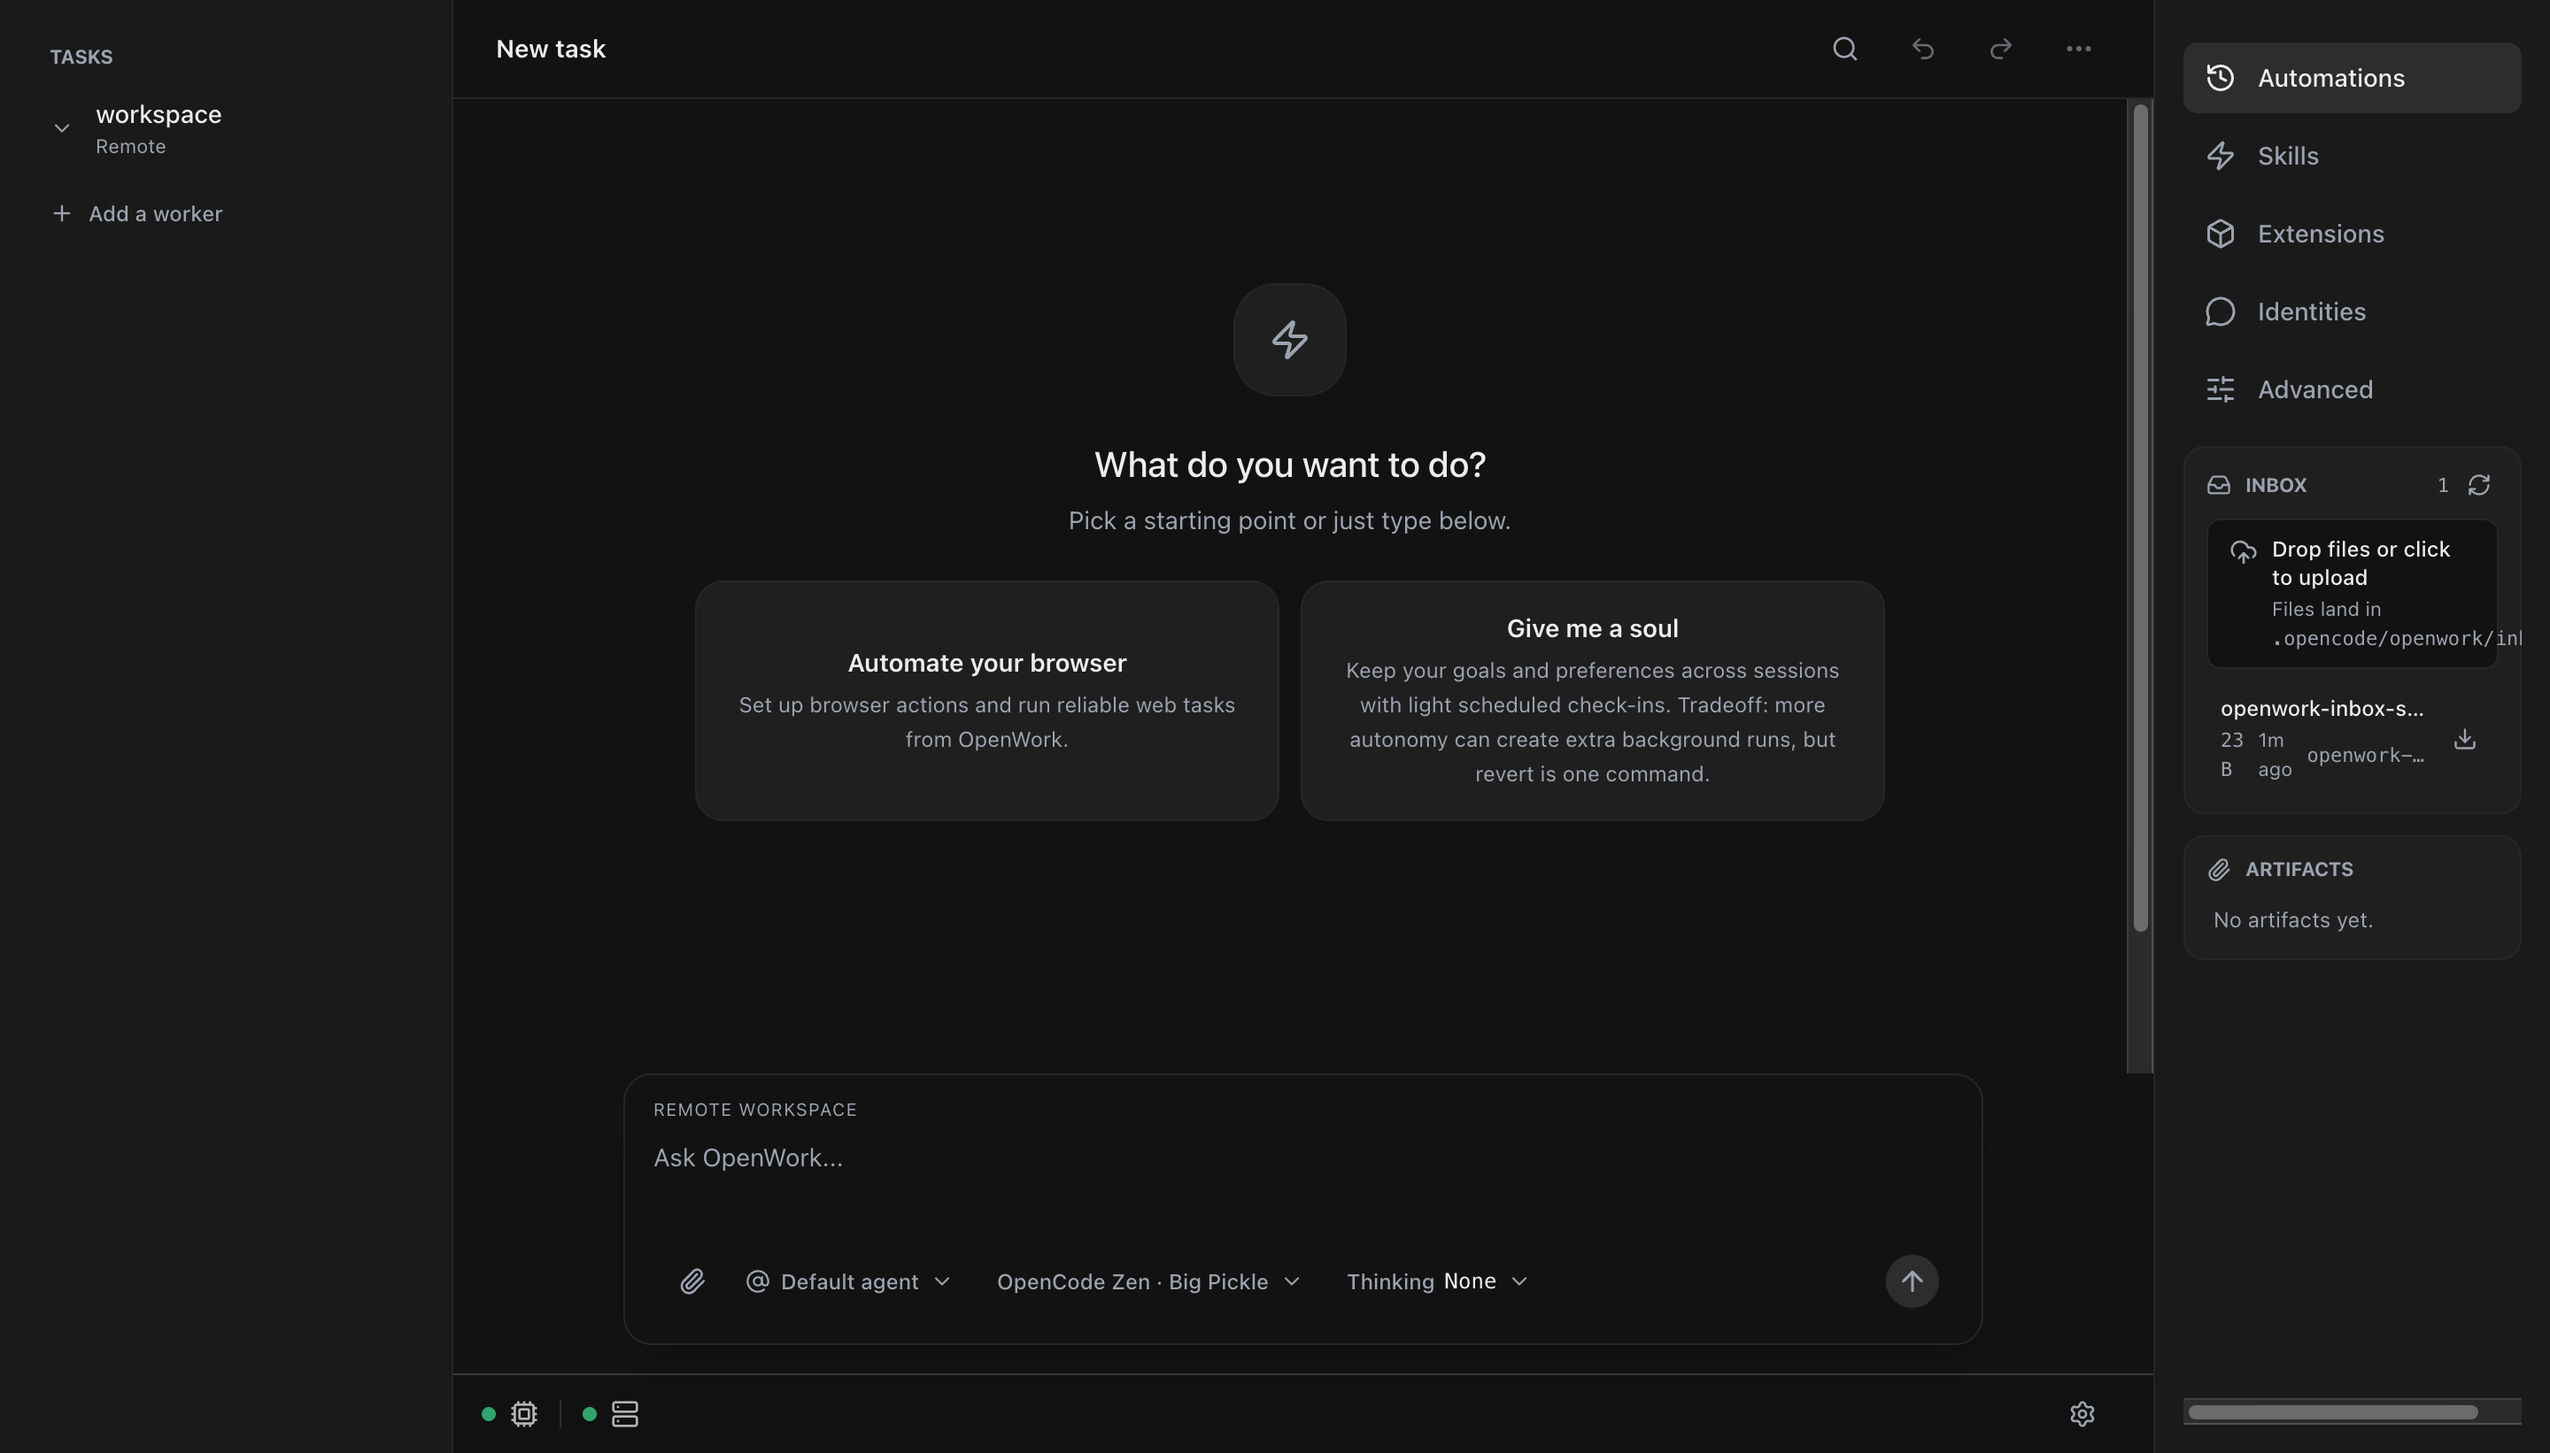
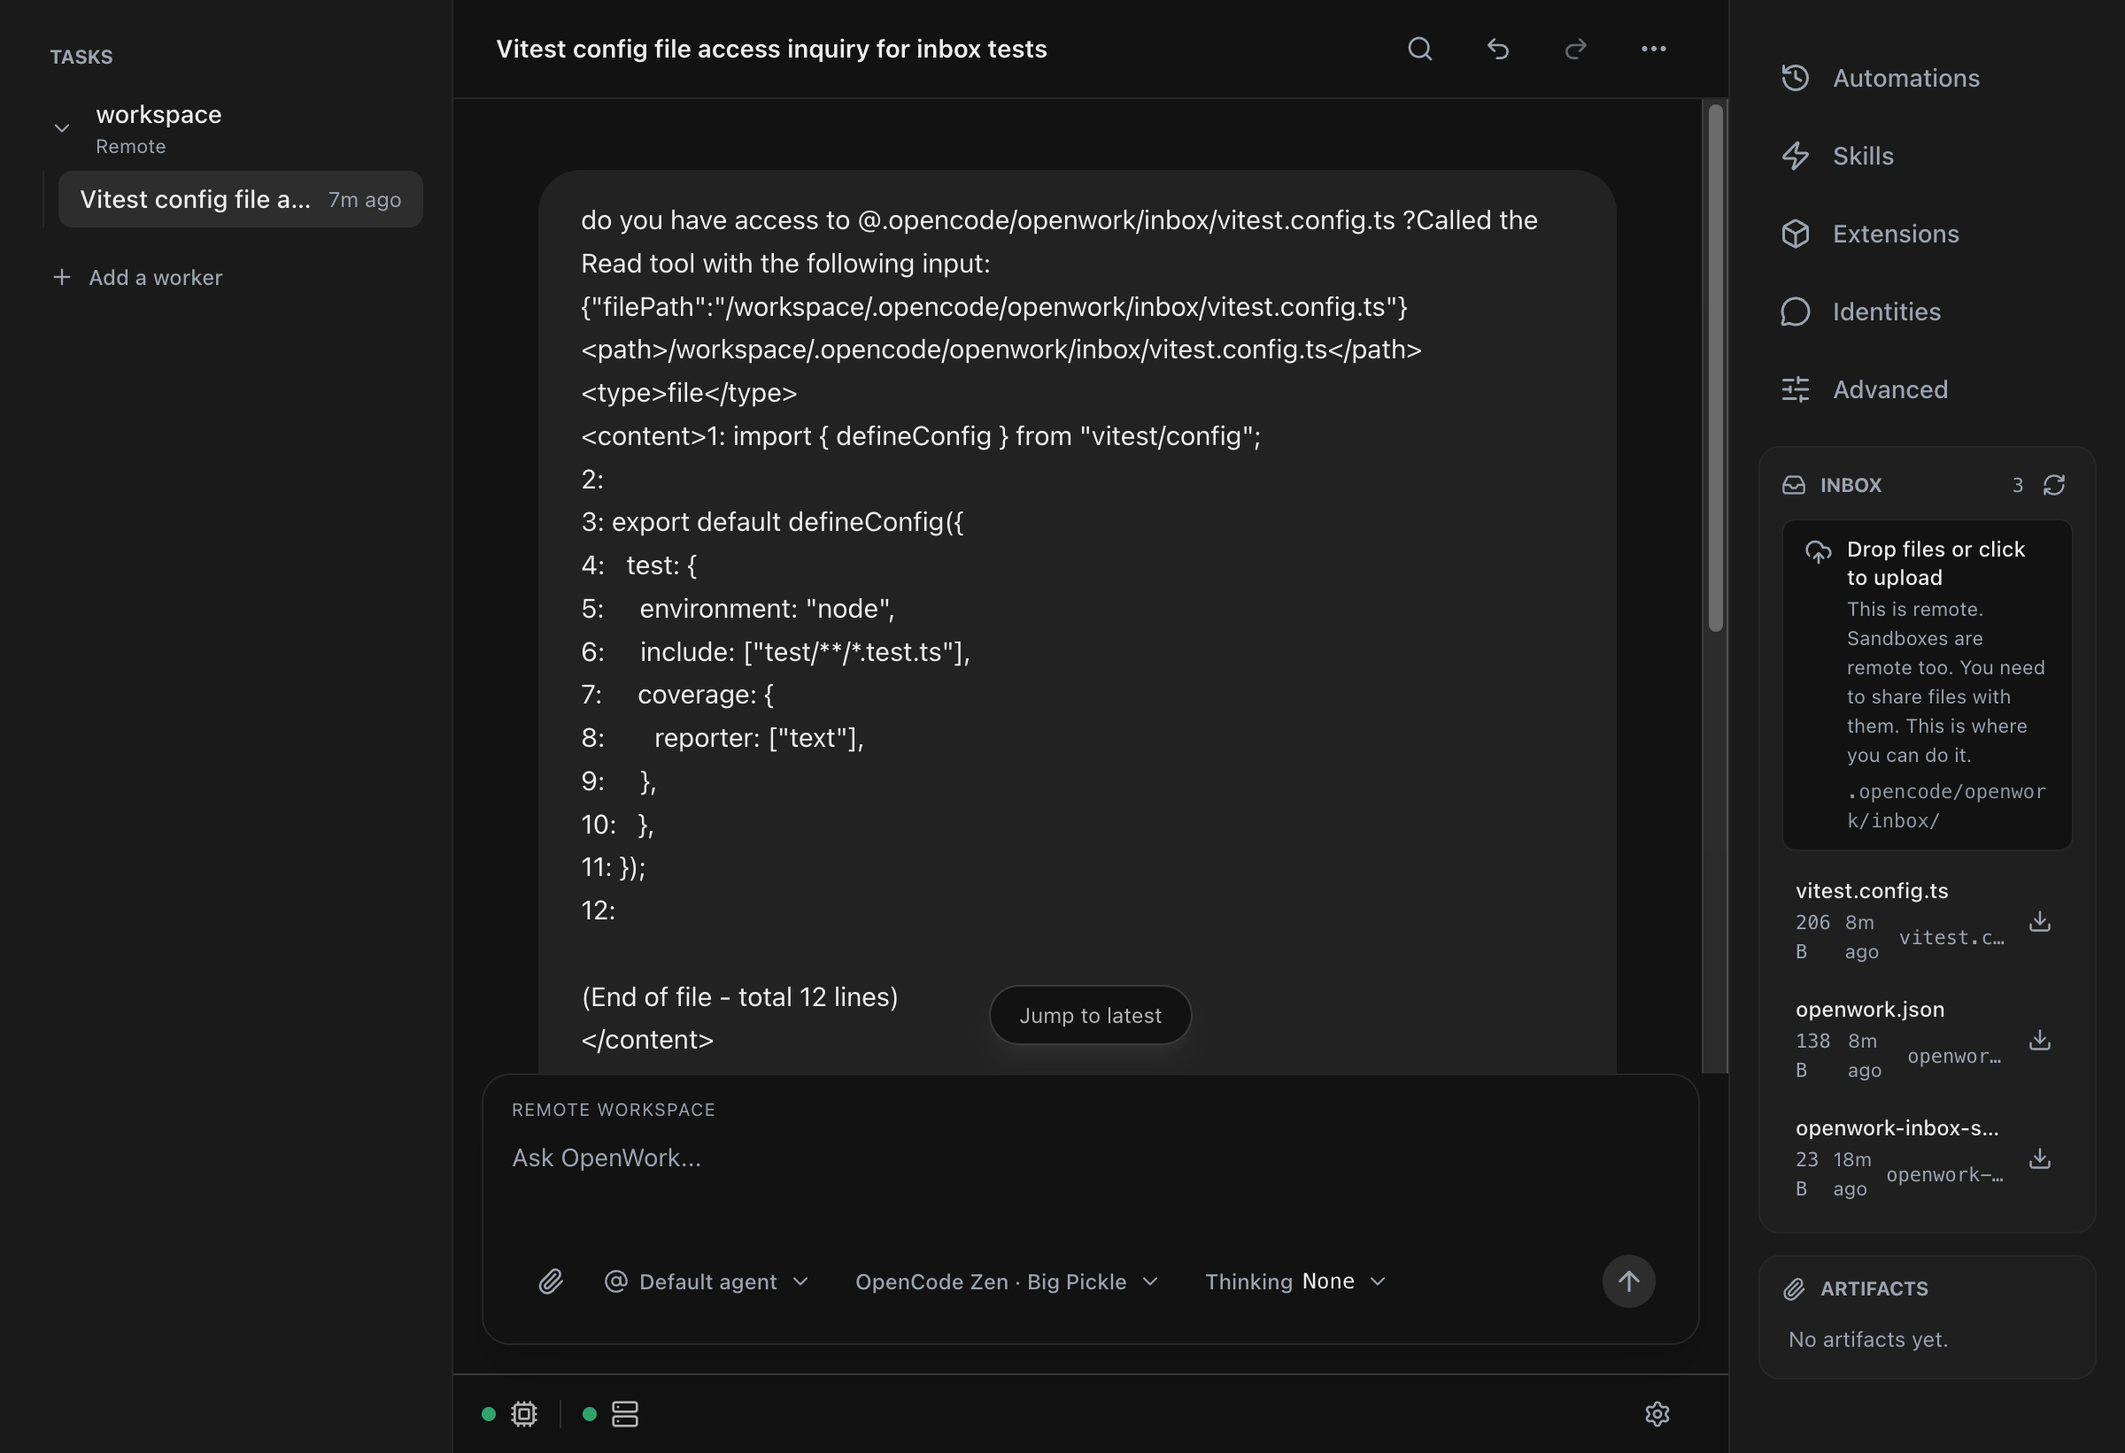
fix(ui): improve inbox copy and prevent overflow (#572)

diff --git a/packages/app/src/app/components/session/inbox-panel.tsx b/packages/app/src/app/components/session/inbox-panel.tsx
@@ -45,6 +45,7 @@ export default function InboxPanel(props: InboxPanelProps) {
   });
 
   const connected = createMemo(() => Boolean(props.client && (props.workspaceId ?? "").trim()));
+  const helperText = "This is remote. Sandboxes are remote too. You need to share files with them. This is where you can do it.";
 
   const visibleItems = createMemo(() => (items() ?? []).slice(0, maxPreview()));
   const hiddenCount = createMemo(() => Math.max(0, (items() ?? []).length - visibleItems().length));
@@ -219,8 +220,9 @@ export default function InboxPanel(props: InboxPanelProps) {
               <div class="text-xs font-medium text-dls-text">
                 {uploading() ? "Uploading..." : "Drop files or click to upload"}
               </div>
-              <div class="mt-0.5 text-[11px] text-dls-secondary">
-                Files land in <span class="font-mono">{INBOX_PREFIX}</span>
+              <div class="mt-0.5 text-[11px] text-dls-secondary">{helperText}</div>
+              <div class="mt-1 text-[11px] text-dls-secondary">
+                <div class="font-mono break-all text-dls-secondary/90">{INBOX_PREFIX}</div>
               </div>
             </div>
           </div>
@@ -250,7 +252,7 @@ export default function InboxPanel(props: InboxPanelProps) {
               const updatedAt = () => (typeof item.updatedAt === "number" ? item.updatedAt : null);
 
               return (
-                <div class="flex items-center gap-2 rounded-lg px-2 py-1.5 hover:bg-dls-active">
+                <div class="flex min-w-0 items-center gap-2 rounded-lg px-2 py-1.5 hover:bg-dls-active">
                   <button
                     type="button"
                     class="min-w-0 flex-1 text-left"
@@ -260,7 +262,7 @@ export default function InboxPanel(props: InboxPanelProps) {
                     disabled={!connected()}
                   >
                     <div class="truncate text-xs font-medium text-dls-text">{name()}</div>
-                    <div class="mt-0.5 flex items-center gap-2 text-[11px] text-dls-secondary">
+                    <div class="mt-0.5 flex min-w-0 items-center gap-2 text-[11px] text-dls-secondary">
                       <Show when={bytes() != null}>
                         <span class="font-mono">{formatBytes(bytes() as number)}</span>
                       </Show>
@@ -268,7 +270,7 @@ export default function InboxPanel(props: InboxPanelProps) {
                         <span>{formatRelativeTime(updatedAt() as number)}</span>
                       </Show>
                       <Show when={rel()}>
-                        <span class="truncate font-mono">{rel()}</span>
+                        <span class="min-w-0 truncate font-mono">{rel()}</span>
                       </Show>
                     </div>
                   </button>

diff --git a/packages/app/src/app/components/session/composer.tsx b/packages/app/src/app/components/session/composer.tsx
@@ -1049,7 +1049,9 @@ export default function Composer(props: ComposerProps) {
       const hasAbsolutePosix = /(^|\s)\/(Users|home|var|etc|opt|tmp|private|Volumes|Applications)\//.test(trimmedForCheck);
       const hasAbsoluteWindows = /(^|\s)[a-zA-Z]:\\/.test(trimmedForCheck);
       if (hasFileUrl || hasAbsolutePosix || hasAbsoluteWindows) {
-        props.onToast("This worker can't access local file paths. Upload the file to the worker inbox instead.");
+        props.onToast(
+          "This is a remote worker. Sandboxes are remote too. To share files with it, upload them to the Inbox in the sidebar.",
+        );
         setShowInboxUploadAction(Boolean(props.onUploadInboxFiles));
       }
     }
